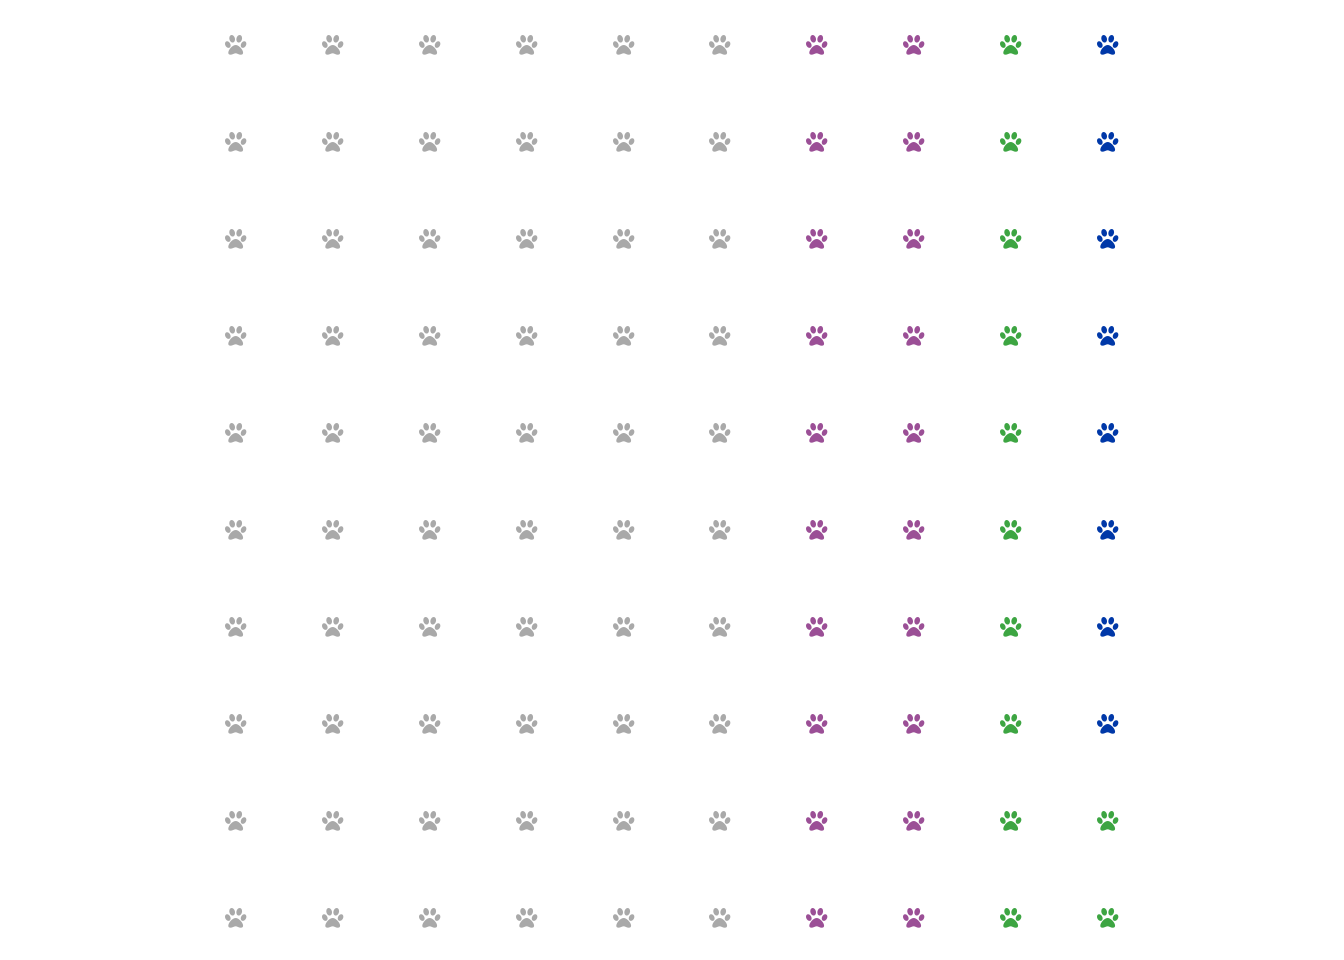
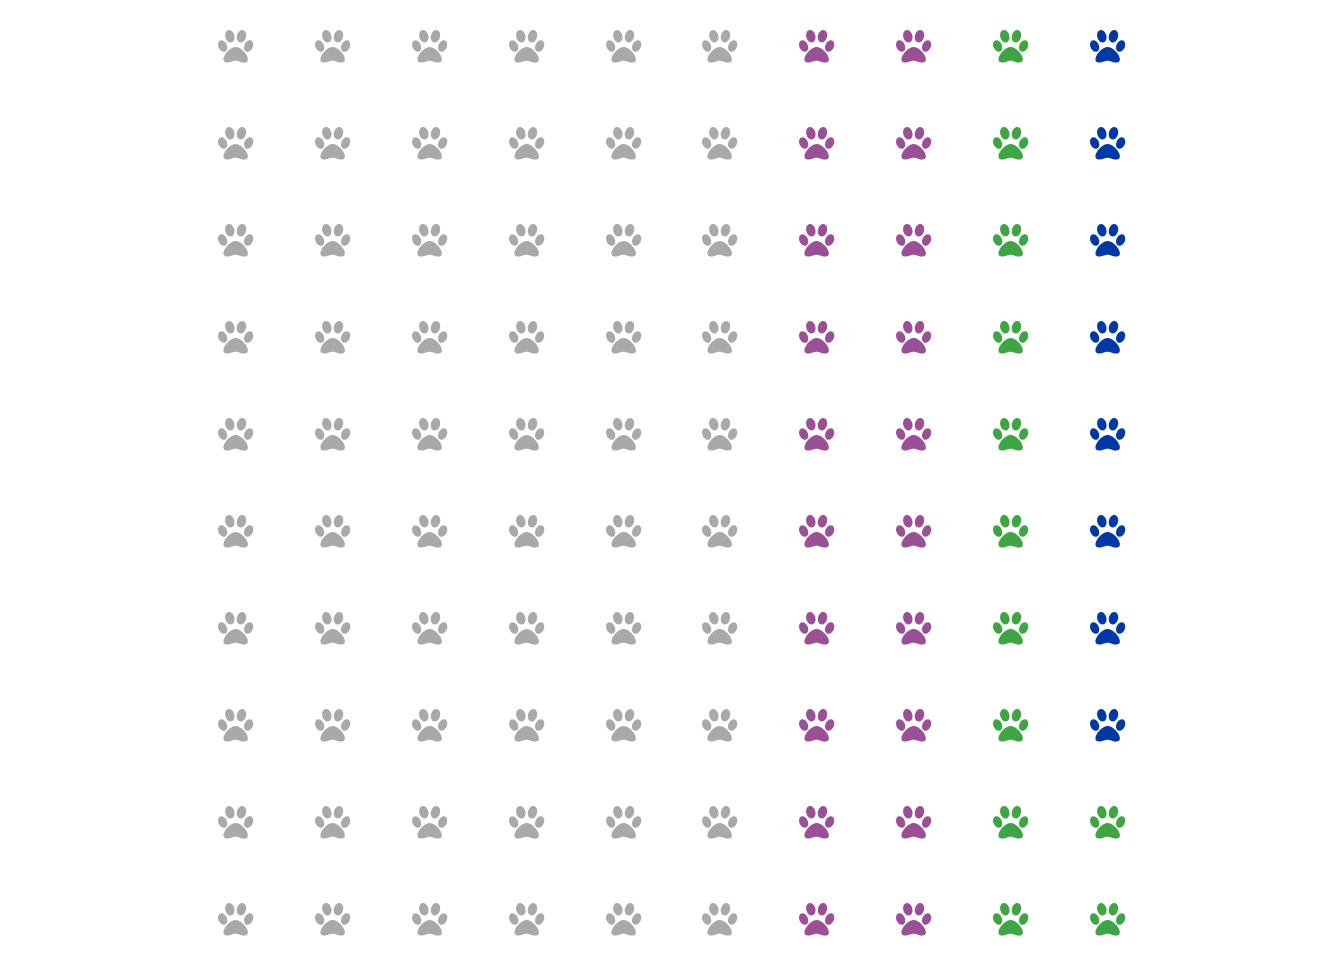
final edit to add herman grid illusion comment

diff --git a/content/post/2026-05-12-icon-arrays/index.md b/content/post/2026-05-12-icon-arrays/index.md
@@ -111,7 +111,9 @@ ggplot(waffle_data, aes(x, y, fill = group)) +
 
 <img src="{{< blogdown/postref >}}index_files/figure-html/code9-1.png" alt="" width="672" style="display: block; margin: auto;" />
 
-So that's the basic icon array, but dots are deeply boring so let's try some with actual icons!
+You might also notice some fun disappearing light colored blogs or dots at the interesection of each of these lines here. That's known as the **Hermann grid illusion** and it is one of the reasons I don't particularly like waffle plots.
+
+So that's the basic icon array, but dots and squares are deeply boring so let's try some with actual icons!
 
 # Option 2: Icon Arrays Using emojifont
 This package can be great... provided you either want to use the same icon over and over again, or all your chosen icons are common emojis. In my case, there's only one sheep emoji. To see what emojis are present for that word, you can use the `search_emoji()` function, e.g.: 
@@ -188,7 +190,7 @@ This one is not my favorite method because I could not get it to register most o
 ``` r
 ggplot(waffle_data, aes(x, y, color = group)) + 
   geom_text(aes(label=fontawesome("fa-paw")), 
-            family='fontawesome-webfont', size=6) +
+            family='fontawesome-webfont', size=10) +
   mysettings
 ```
 
@@ -333,7 +335,7 @@ ggplot(phylo_data, aes(x, y, color = group)) +
 ``` r
 ggplot(waffle_data, aes(x, y, color = group)) + 
   geom_text(aes(label=fontawesome("fa-paw")), 
-            family='fontawesome-webfont', size=6) +
+            family='fontawesome-webfont', size=10) +
   mysettings
 ```
 
